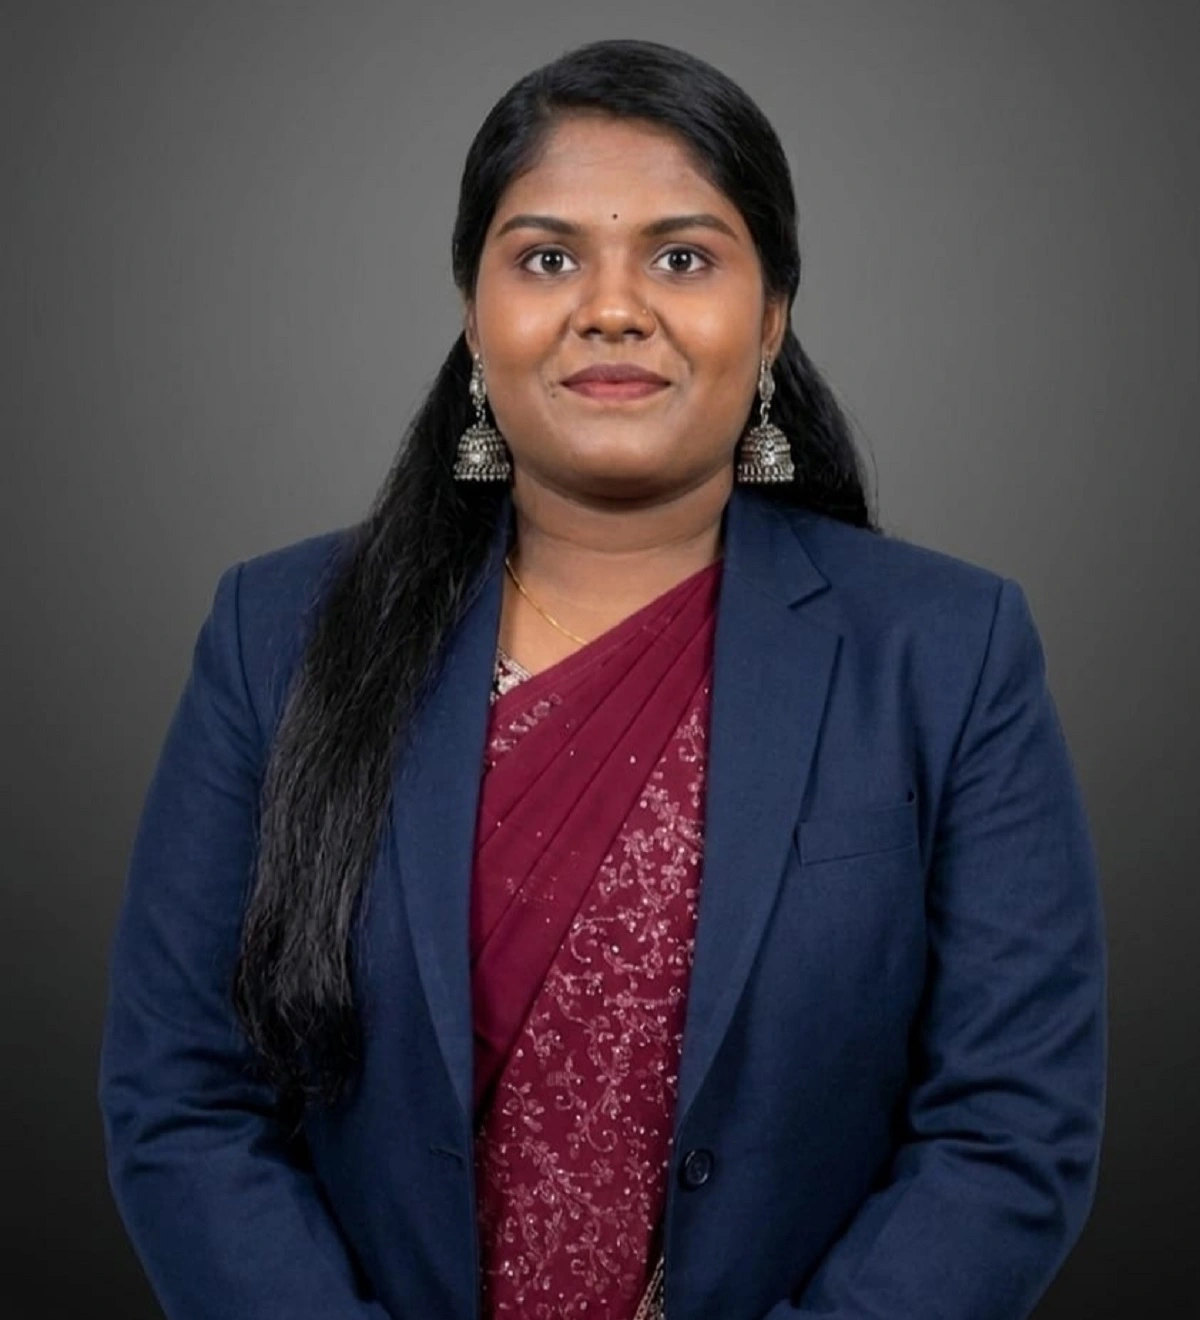
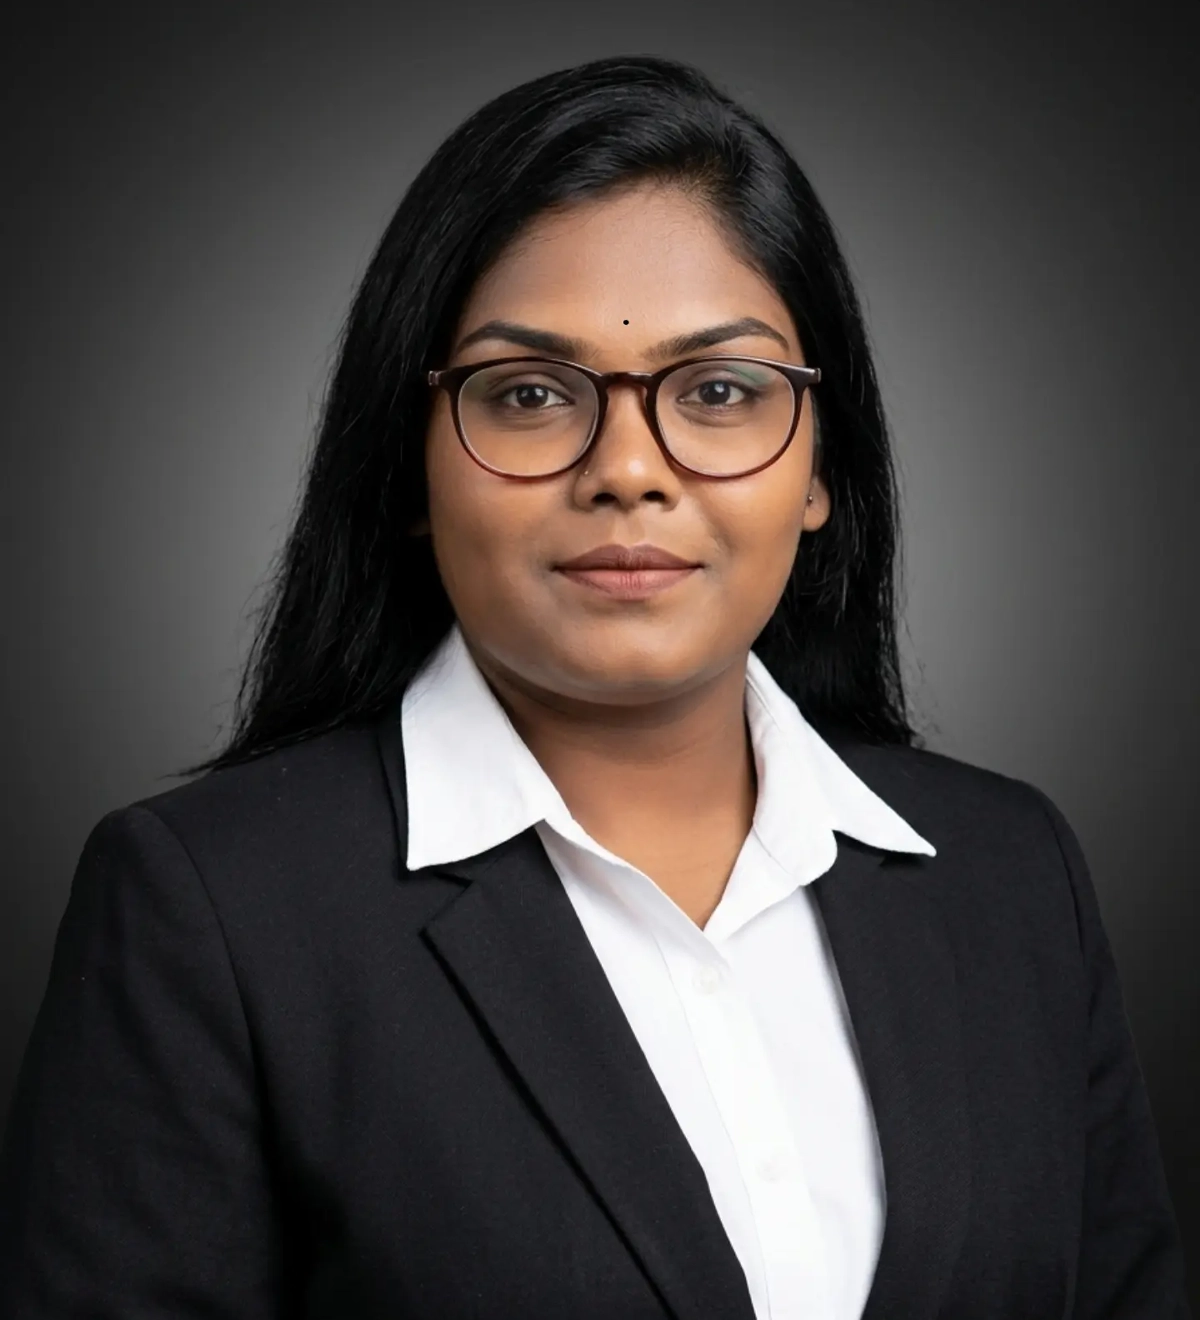
new updates 14 june 2026 v4

diff --git a/src/sections/career-connect/MainServices.tsx b/src/sections/career-connect/MainServices.tsx
@@ -28,7 +28,7 @@ const services = [
     icon: Compass,
     href: "/career-connect/career-explore",
     size: "large",
-    image: "/images/career-connect/CE.webp",
+    // image: "/images/career-connect/CE.webp",
   },
   {
     title: "Pharmacy Ecosystem",
@@ -37,7 +37,7 @@ const services = [
     icon: Network,
     href: "/career-connect/pharmacy-ecosystem",
     size: "large",
-    image: "/images/career-connect/PE.webp",
+    // image: "/images/career-connect/PE.webp",
   },
   {
     title: "Resume Building",
@@ -46,7 +46,7 @@ const services = [
     icon: FileText,
     href: "/career-connect/resume-building",
     size: "medium",
-    image: "/images/career-connect/RB.webp",
+    // image: "/images/career-connect/RB.webp",
   },
   {
     title: "LinkedIn Optimization",
@@ -55,7 +55,7 @@ const services = [
     icon: FaLinkedinIn,
     href: "/career-connect/linkedin-optimization",
     size: "medium",
-    image: "/images/career-connect/LIO.webp",
+    // image: "/images/career-connect/LIO.webp",
   },
   {
     title: "Hospital Placement",
@@ -64,7 +64,7 @@ const services = [
     icon: Building2,
     href: "/career-connect/hospital-placement",
     size: "wide",
-    image: "/images/career-connect/HP.webp",
+    // image: "/images/career-connect/HP.webp",
   },
   {
     title: "Interview Preparation",
@@ -73,7 +73,7 @@ const services = [
     icon: MessageSquareText,
     href: "/career-connect/interview-preparation",
     size: "medium",
-    image: "/images/career-connect/IP.webp",
+    // image: "/images/career-connect/IP.webp",
   },
   {
     title: "Abroad Opportunities",
@@ -82,7 +82,7 @@ const services = [
     icon: Globe,
     href: "/career-connect/abroad-opportunities",
     size: "medium",
-    image: "/images/career-connect/AO.webp",
+    // image: "/images/career-connect/AO.webp",
   },
   {
     title: "Research Club",
@@ -91,7 +91,7 @@ const services = [
     icon: Microscope,
     href: "/career-connect/research-club",
     size: "wide",
-    image: "/images/career-connect/RC.webp",
+    // image: "/images/career-connect/RC.webp",
   },
 ];
 

diff --git a/src/sections/courses/CoursesImportance.tsx b/src/sections/courses/CoursesImportance.tsx
@@ -7,40 +7,40 @@ const benefits = [
     title: "Resume Enhancement",
     description:
       "Stand out during placements with recognized certifications and practical healthcare skills.",
-    image: "/images/courses/importance/RE.webp",
+    // image: "/images/courses/importance/RE.webp",
     large: true,
   },
   {
     title: "Clinical Knowledge",
     description:
       "Develop patient counselling, medication management, and real-world pharmacy practice skills.",
-    image: "/images/courses/importance/CK.webp",
+    // image: "/images/courses/importance/CK.webp",
     large: true,
   },
   {
     title: "Higher Education",
     description:
       "Strengthen postgraduate applications and build a competitive academic profile.",
-    image: "/images/courses/importance/CK2.webp",
+    // image: "/images/courses/importance/CK2.webp",
   },
   {
     title: "Job Opportunities",
     description:
       "Prepare for careers in Clinical Pharmacy, Pharmacovigilance, Regulatory Affairs, and Medical Writing.",
-    image: "/images/courses/importance/JO.webp",
+    // image: "/images/courses/importance/JO.webp",
   },
   {
     title: "Industry Ready Skills",
     description:
       "Gain practical healthcare knowledge that employers actively look for in graduates.",
-    image: "/images/courses/importance/IRS.webp",
+    // image: "/images/courses/importance/IRS.webp",
     large: true,
   },
   {
     title: "Certificate Value",
     description:
       "Earn professional certificates that showcase your commitment to continuous learning.",
-    image: "/images/courses/importance/CERT.webp",
+    // image: "/images/courses/importance/CERT.webp",
   },
 ];
 